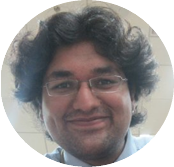
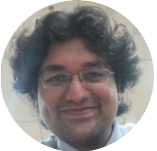
about 1.2
-alignment adjusted of photos

diff --git a/_site/data/css/freidae.css b/_site/data/css/freidae.css
@@ -239,13 +239,13 @@ option{
 }
 
 #about-ppl-1 {
-    width: 161px;
+    width: 47%;
     display: inline-block;
 }
 
 #about-ppl-2 {
-    width: 186px;
-    margin: 20% 0% 0% 11%;
+    width: 34%;
+    margin: 20% 0%;
     display: inline-block;
 }
 
